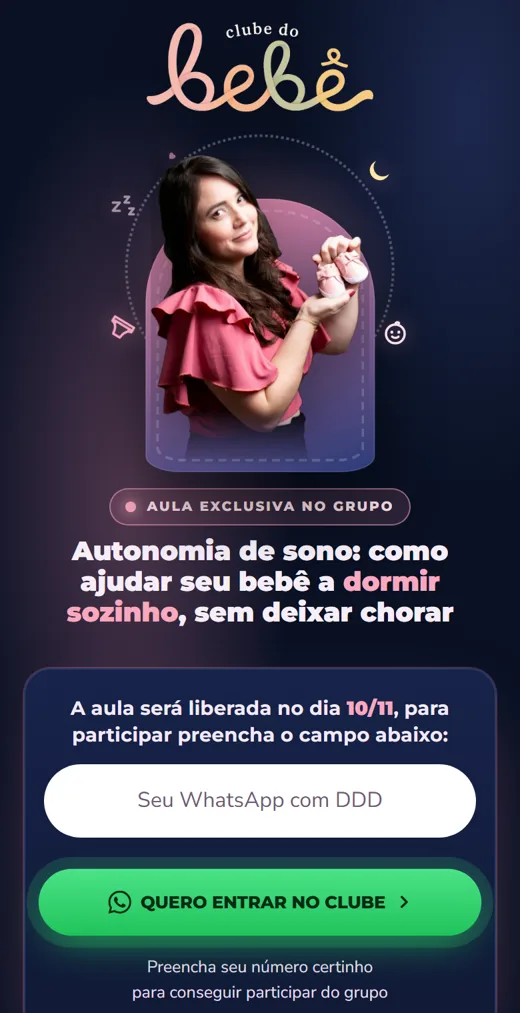
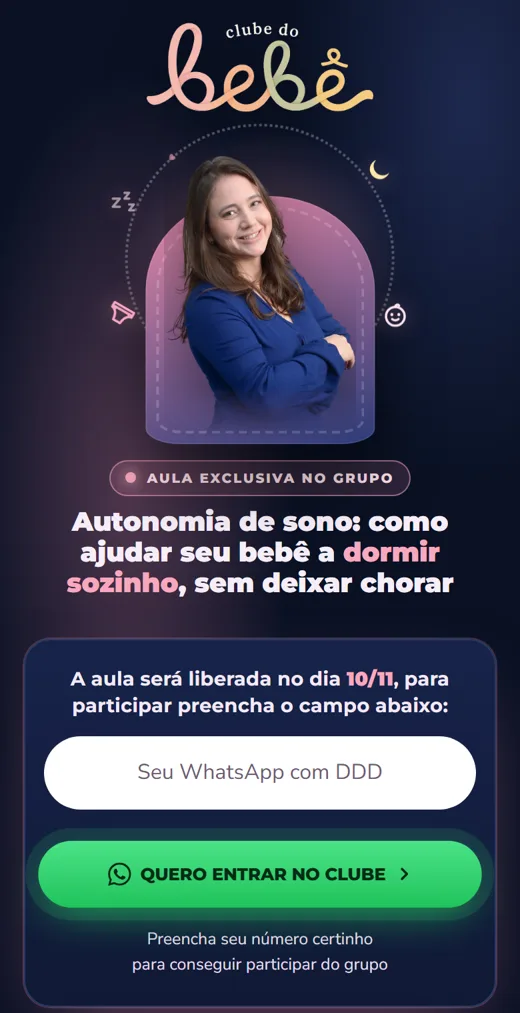
black 2026: Clube sono com fotos proprias da Day

diff --git a/2026-10-26-black-2026/clube-do-bebe/sono-aula/index.html b/2026-10-26-black-2026/clube-do-bebe/sono-aula/index.html
@@ -243,6 +243,9 @@ footer{padding:26px 18px calc(26px + env(safe-area-inset-bottom));text-align:cen
 @media(min-width:861px){.topo-logo{padding-bottom:26px}}
 .topo-logo img{width:min(250px,60vw);height:auto;filter:drop-shadow(0 6px 22px rgba(0,0,0,.45))}
 @media(max-width:860px){.topo-logo img{width:min(170px,46vw)}.hero{padding-top:16px}}
+.portrait img{width:84%}
+.lockup-day .portrait img{width:84%;margin-inline:0}
+.portrait img.day-ebook{width:80%}
 </style>
 <script src="../../assets/black.js" defer></script>
 </head>
@@ -259,7 +262,7 @@ footer{padding:26px 18px calc(26px + env(safe-area-inset-bottom));text-align:cen
         <svg class="cf fralda" viewBox="0 0 24 24" fill="none" stroke="currentColor" stroke-width="2" stroke-linecap="round" stroke-linejoin="round" aria-hidden="true"><path d="M2.5 5.5h19v4.5c-3.4.3-5.6 3.3-6.2 9h-6.6c-.6-5.7-2.8-8.7-6.2-9z"/><path d="M2.5 8.5h19"/><path d="M5.5 8.5v1.6M18.5 8.5v1.6"/></svg>
         <svg class="cf bebe" viewBox="0 0 24 24" fill="none" stroke="currentColor" stroke-width="2" stroke-linecap="round" stroke-linejoin="round" aria-hidden="true"><circle cx="12" cy="13" r="8"/><path d="M12 5c0-2.2 2.4-2.6 3.2-1.2"/><path d="M9.3 15.4c1.5 1.3 3.9 1.3 5.4 0"/><path d="M9 11.5h.01M15 11.5h.01" stroke-width="2.6"/></svg>
         <svg class="cf cor" viewBox="0 0 24 24" fill="currentColor" aria-hidden="true"><path d="M12 21s-8-5.2-8-11a4.6 4.6 0 0 1 8-3 4.6 4.6 0 0 1 8 3c0 5.8-8 11-8 11z"/></svg>
-        <img src="../../assets/day-cut-bm.webp" alt="Dayane Dos Anjos segurando um sapatinho de bebê" width="681" height="982">
+        <img src="../../assets/day-sono-hero.webp" alt="Dayane Dos Anjos sorrindo" width="733" height="1100">
       </div>
     </div>
     <div class="hero-txt">
@@ -288,7 +291,7 @@ footer{padding:26px 18px calc(26px + env(safe-area-inset-bottom));text-align:cen
         <svg class="cf fralda" viewBox="0 0 24 24" fill="none" stroke="currentColor" stroke-width="2" stroke-linecap="round" stroke-linejoin="round" aria-hidden="true"><path d="M2.5 5.5h19v4.5c-3.4.3-5.6 3.3-6.2 9h-6.6c-.6-5.7-2.8-8.7-6.2-9z"/><path d="M2.5 8.5h19"/><path d="M5.5 8.5v1.6M18.5 8.5v1.6"/></svg>
         <svg class="cf bebe" viewBox="0 0 24 24" fill="none" stroke="currentColor" stroke-width="2" stroke-linecap="round" stroke-linejoin="round" aria-hidden="true"><circle cx="12" cy="13" r="8"/><path d="M12 5c0-2.2 2.4-2.6 3.2-1.2"/><path d="M9.3 15.4c1.5 1.3 3.9 1.3 5.4 0"/><path d="M9 11.5h.01M15 11.5h.01" stroke-width="2.6"/></svg>
         <svg class="cf cor" viewBox="0 0 24 24" fill="currentColor" aria-hidden="true"><path d="M12 21s-8-5.2-8-11a4.6 4.6 0 0 1 8-3 4.6 4.6 0 0 1 8 3c0 5.8-8 11-8 11z"/></svg>
-        <img src="../../assets/day-bracos-cruzados.webp" alt="Dayane Dos Anjos de braços cruzados" width="693" height="964" loading="lazy">
+        <img src="../../assets/day-sono-queixo.webp" alt="Dayane Dos Anjos com a mão no queixo" width="709" height="1100" loading="lazy">
       </div>
       <div class="logo-placa placa-aula"><span>Aula<br>exclusiva</span><svg class="bri b1" viewBox="0 0 24 24" fill="currentColor" aria-hidden="true"><path d="M12 0c.6 5.8 5.6 10.8 12 12-6.4 1.2-11.4 6.2-12 12-.6-5.8-5.6-10.8-12-12C6.4 10.8 11.4 5.8 12 0z"/></svg><svg class="bri b2" viewBox="0 0 24 24" fill="currentColor" aria-hidden="true"><path d="M12 0c.6 5.8 5.6 10.8 12 12-6.4 1.2-11.4 6.2-12 12-.6-5.8-5.6-10.8-12-12C6.4 10.8 11.4 5.8 12 0z"/></svg><svg class="bri b3" viewBox="0 0 24 24" fill="currentColor" aria-hidden="true"><path d="M12 0c.6 5.8 5.6 10.8 12 12-6.4 1.2-11.4 6.2-12 12-.6-5.8-5.6-10.8-12-12C6.4 10.8 11.4 5.8 12 0z"/></svg></div>
     </div>
@@ -321,7 +324,7 @@ footer{padding:26px 18px calc(26px + env(safe-area-inset-bottom));text-align:cen
         <svg class="cf fralda" viewBox="0 0 24 24" fill="none" stroke="currentColor" stroke-width="2" stroke-linecap="round" stroke-linejoin="round" aria-hidden="true"><path d="M2.5 5.5h19v4.5c-3.4.3-5.6 3.3-6.2 9h-6.6c-.6-5.7-2.8-8.7-6.2-9z"/><path d="M2.5 8.5h19"/><path d="M5.5 8.5v1.6M18.5 8.5v1.6"/></svg>
         <svg class="cf bebe" viewBox="0 0 24 24" fill="none" stroke="currentColor" stroke-width="2" stroke-linecap="round" stroke-linejoin="round" aria-hidden="true"><circle cx="12" cy="13" r="8"/><path d="M12 5c0-2.2 2.4-2.6 3.2-1.2"/><path d="M9.3 15.4c1.5 1.3 3.9 1.3 5.4 0"/><path d="M9 11.5h.01M15 11.5h.01" stroke-width="2.6"/></svg>
         <svg class="cf cor" viewBox="0 0 24 24" fill="currentColor" aria-hidden="true"><path d="M12 21s-8-5.2-8-11a4.6 4.6 0 0 1 8-3 4.6 4.6 0 0 1 8 3c0 5.8-8 11-8 11z"/></svg>
-        <img src="../../assets/day-maos-cintura.webp" alt="Dayane Dos Anjos" width="760" height="735" loading="lazy">
+        <img src="../../assets/day-sono-cruzados.webp" alt="Dayane Dos Anjos" width="751" height="1100" loading="lazy">
       </div>
       <div class="logo-placa placa-aula"><span>+21 mil<br>alunas</span><svg class="bri b1" viewBox="0 0 24 24" fill="currentColor" aria-hidden="true"><path d="M12 0c.6 5.8 5.6 10.8 12 12-6.4 1.2-11.4 6.2-12 12-.6-5.8-5.6-10.8-12-12C6.4 10.8 11.4 5.8 12 0z"/></svg><svg class="bri b2" viewBox="0 0 24 24" fill="currentColor" aria-hidden="true"><path d="M12 0c.6 5.8 5.6 10.8 12 12-6.4 1.2-11.4 6.2-12 12-.6-5.8-5.6-10.8-12-12C6.4 10.8 11.4 5.8 12 0z"/></svg><svg class="bri b3" viewBox="0 0 24 24" fill="currentColor" aria-hidden="true"><path d="M12 0c.6 5.8 5.6 10.8 12 12-6.4 1.2-11.4 6.2-12 12-.6-5.8-5.6-10.8-12-12C6.4 10.8 11.4 5.8 12 0z"/></svg></div>
     </div>

diff --git a/2026-10-26-black-2026/clube-do-bebe/sono-ebook/index.html b/2026-10-26-black-2026/clube-do-bebe/sono-ebook/index.html
@@ -249,6 +249,9 @@ footer{padding:26px 18px calc(26px + env(safe-area-inset-bottom));text-align:cen
 @media(min-width:861px){.topo-logo{padding-bottom:26px}}
 .topo-logo img{width:min(250px,60vw);height:auto;filter:drop-shadow(0 6px 22px rgba(0,0,0,.45))}
 @media(max-width:860px){.topo-logo img{width:min(170px,46vw)}.hero{padding-top:16px}}
+.portrait img{width:84%}
+.lockup-day .portrait img{width:84%;margin-inline:0}
+.portrait img.day-ebook{width:80%}
 </style>
 <script src="../../assets/black.js" defer></script>
 </head>
@@ -260,7 +263,7 @@ footer{padding:26px 18px calc(26px + env(safe-area-inset-bottom));text-align:cen
     <div class="lockup">
       <div class="portrait">
         <span class="halo"></span><span class="rings"></span><span class="arch"></span>
-        <img class="day-ebook" src="../../assets/day-apresentando.webp" alt="Dayane Dos Anjos apresentando o ebook" width="900" height="916">
+        <img class="day-ebook" src="../../assets/day-sono-maos.webp" alt="Dayane Dos Anjos apresentando o ebook" width="656" height="1100">
         <div class="capa-ebook"><img src="../../assets/capa-sono.webp" alt="Capa do ebook O que ninguém te contou sobre o sono do bebê no berço" width="700" height="1120"><span>Grátis</span></div>
       </div>
     </div>
@@ -290,7 +293,7 @@ footer{padding:26px 18px calc(26px + env(safe-area-inset-bottom));text-align:cen
         <svg class="cf fralda" viewBox="0 0 24 24" fill="none" stroke="currentColor" stroke-width="2" stroke-linecap="round" stroke-linejoin="round" aria-hidden="true"><path d="M2.5 5.5h19v4.5c-3.4.3-5.6 3.3-6.2 9h-6.6c-.6-5.7-2.8-8.7-6.2-9z"/><path d="M2.5 8.5h19"/><path d="M5.5 8.5v1.6M18.5 8.5v1.6"/></svg>
         <svg class="cf bebe" viewBox="0 0 24 24" fill="none" stroke="currentColor" stroke-width="2" stroke-linecap="round" stroke-linejoin="round" aria-hidden="true"><circle cx="12" cy="13" r="8"/><path d="M12 5c0-2.2 2.4-2.6 3.2-1.2"/><path d="M9.3 15.4c1.5 1.3 3.9 1.3 5.4 0"/><path d="M9 11.5h.01M15 11.5h.01" stroke-width="2.6"/></svg>
         <svg class="cf cor" viewBox="0 0 24 24" fill="currentColor" aria-hidden="true"><path d="M12 21s-8-5.2-8-11a4.6 4.6 0 0 1 8-3 4.6 4.6 0 0 1 8 3c0 5.8-8 11-8 11z"/></svg>
-        <img src="../../assets/day-bracos-cruzados.webp" alt="Dayane Dos Anjos de braços cruzados" width="693" height="964" loading="lazy">
+        <img src="../../assets/day-sono-queixo2.webp" alt="Dayane Dos Anjos com a mão no queixo" width="674" height="1100" loading="lazy">
       </div>
       <div class="logo-placa placa-aula"><span>Aula<br>exclusiva</span><svg class="bri b1" viewBox="0 0 24 24" fill="currentColor" aria-hidden="true"><path d="M12 0c.6 5.8 5.6 10.8 12 12-6.4 1.2-11.4 6.2-12 12-.6-5.8-5.6-10.8-12-12C6.4 10.8 11.4 5.8 12 0z"/></svg><svg class="bri b2" viewBox="0 0 24 24" fill="currentColor" aria-hidden="true"><path d="M12 0c.6 5.8 5.6 10.8 12 12-6.4 1.2-11.4 6.2-12 12-.6-5.8-5.6-10.8-12-12C6.4 10.8 11.4 5.8 12 0z"/></svg><svg class="bri b3" viewBox="0 0 24 24" fill="currentColor" aria-hidden="true"><path d="M12 0c.6 5.8 5.6 10.8 12 12-6.4 1.2-11.4 6.2-12 12-.6-5.8-5.6-10.8-12-12C6.4 10.8 11.4 5.8 12 0z"/></svg></div>
     </div>
@@ -323,7 +326,7 @@ footer{padding:26px 18px calc(26px + env(safe-area-inset-bottom));text-align:cen
         <svg class="cf fralda" viewBox="0 0 24 24" fill="none" stroke="currentColor" stroke-width="2" stroke-linecap="round" stroke-linejoin="round" aria-hidden="true"><path d="M2.5 5.5h19v4.5c-3.4.3-5.6 3.3-6.2 9h-6.6c-.6-5.7-2.8-8.7-6.2-9z"/><path d="M2.5 8.5h19"/><path d="M5.5 8.5v1.6M18.5 8.5v1.6"/></svg>
         <svg class="cf bebe" viewBox="0 0 24 24" fill="none" stroke="currentColor" stroke-width="2" stroke-linecap="round" stroke-linejoin="round" aria-hidden="true"><circle cx="12" cy="13" r="8"/><path d="M12 5c0-2.2 2.4-2.6 3.2-1.2"/><path d="M9.3 15.4c1.5 1.3 3.9 1.3 5.4 0"/><path d="M9 11.5h.01M15 11.5h.01" stroke-width="2.6"/></svg>
         <svg class="cf cor" viewBox="0 0 24 24" fill="currentColor" aria-hidden="true"><path d="M12 21s-8-5.2-8-11a4.6 4.6 0 0 1 8-3 4.6 4.6 0 0 1 8 3c0 5.8-8 11-8 11z"/></svg>
-        <img src="../../assets/day-maos-cintura.webp" alt="Dayane Dos Anjos" width="760" height="735" loading="lazy">
+        <img src="../../assets/day-sono-verde.webp" alt="Dayane Dos Anjos" width="653" height="1100" loading="lazy">
       </div>
       <div class="logo-placa placa-aula"><span>+21 mil<br>alunas</span><svg class="bri b1" viewBox="0 0 24 24" fill="currentColor" aria-hidden="true"><path d="M12 0c.6 5.8 5.6 10.8 12 12-6.4 1.2-11.4 6.2-12 12-.6-5.8-5.6-10.8-12-12C6.4 10.8 11.4 5.8 12 0z"/></svg><svg class="bri b2" viewBox="0 0 24 24" fill="currentColor" aria-hidden="true"><path d="M12 0c.6 5.8 5.6 10.8 12 12-6.4 1.2-11.4 6.2-12 12-.6-5.8-5.6-10.8-12-12C6.4 10.8 11.4 5.8 12 0z"/></svg><svg class="bri b3" viewBox="0 0 24 24" fill="currentColor" aria-hidden="true"><path d="M12 0c.6 5.8 5.6 10.8 12 12-6.4 1.2-11.4 6.2-12 12-.6-5.8-5.6-10.8-12-12C6.4 10.8 11.4 5.8 12 0z"/></svg></div>
     </div>
